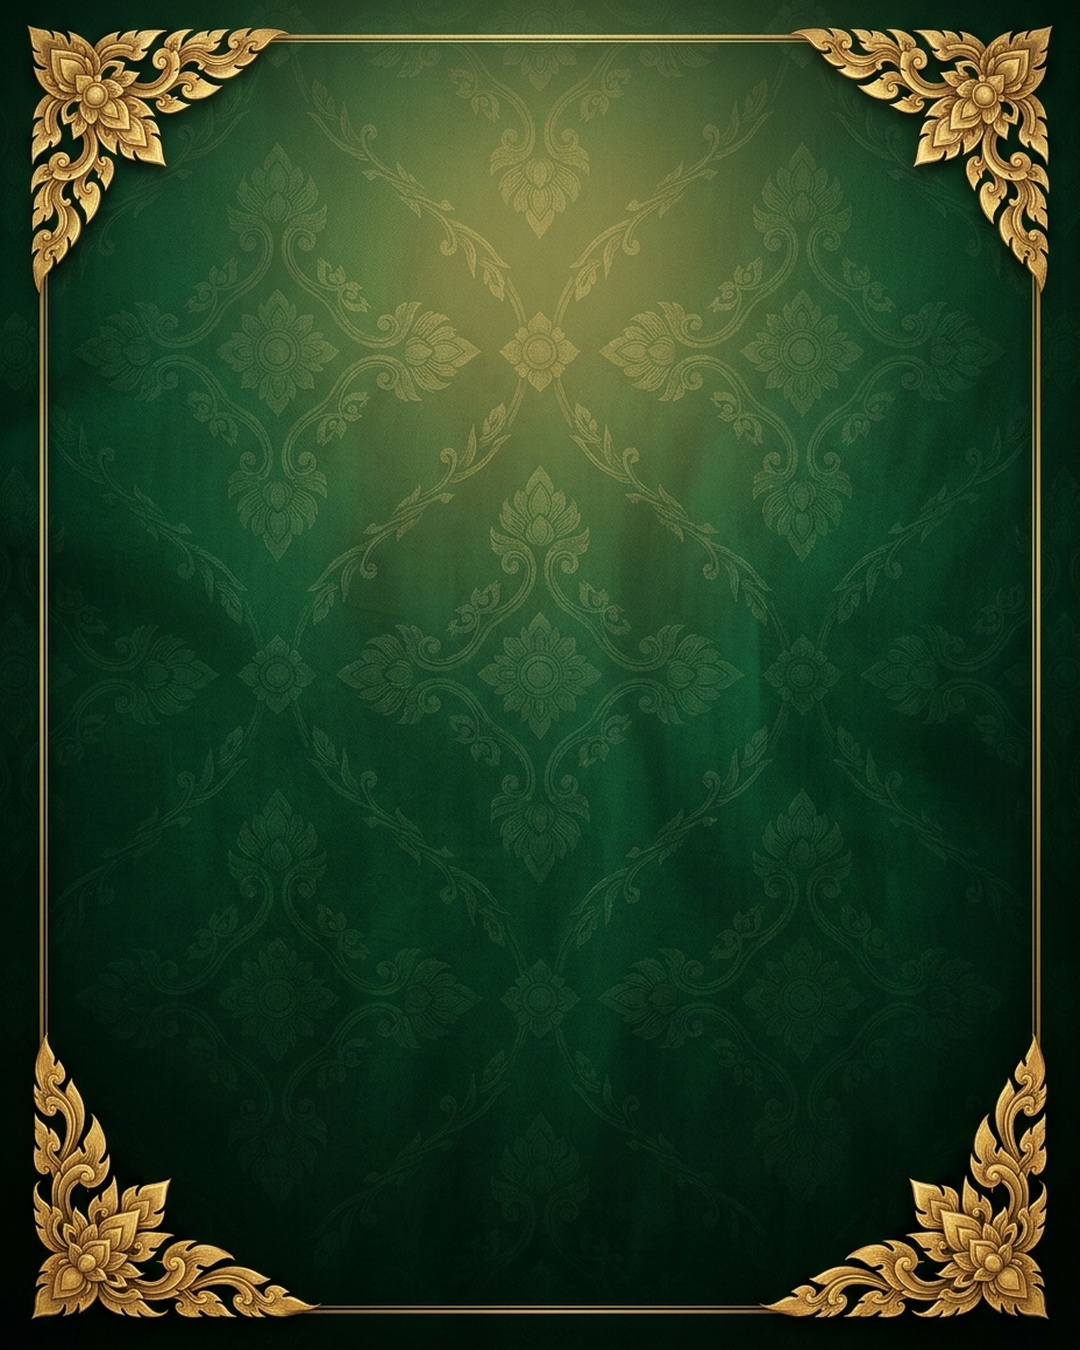
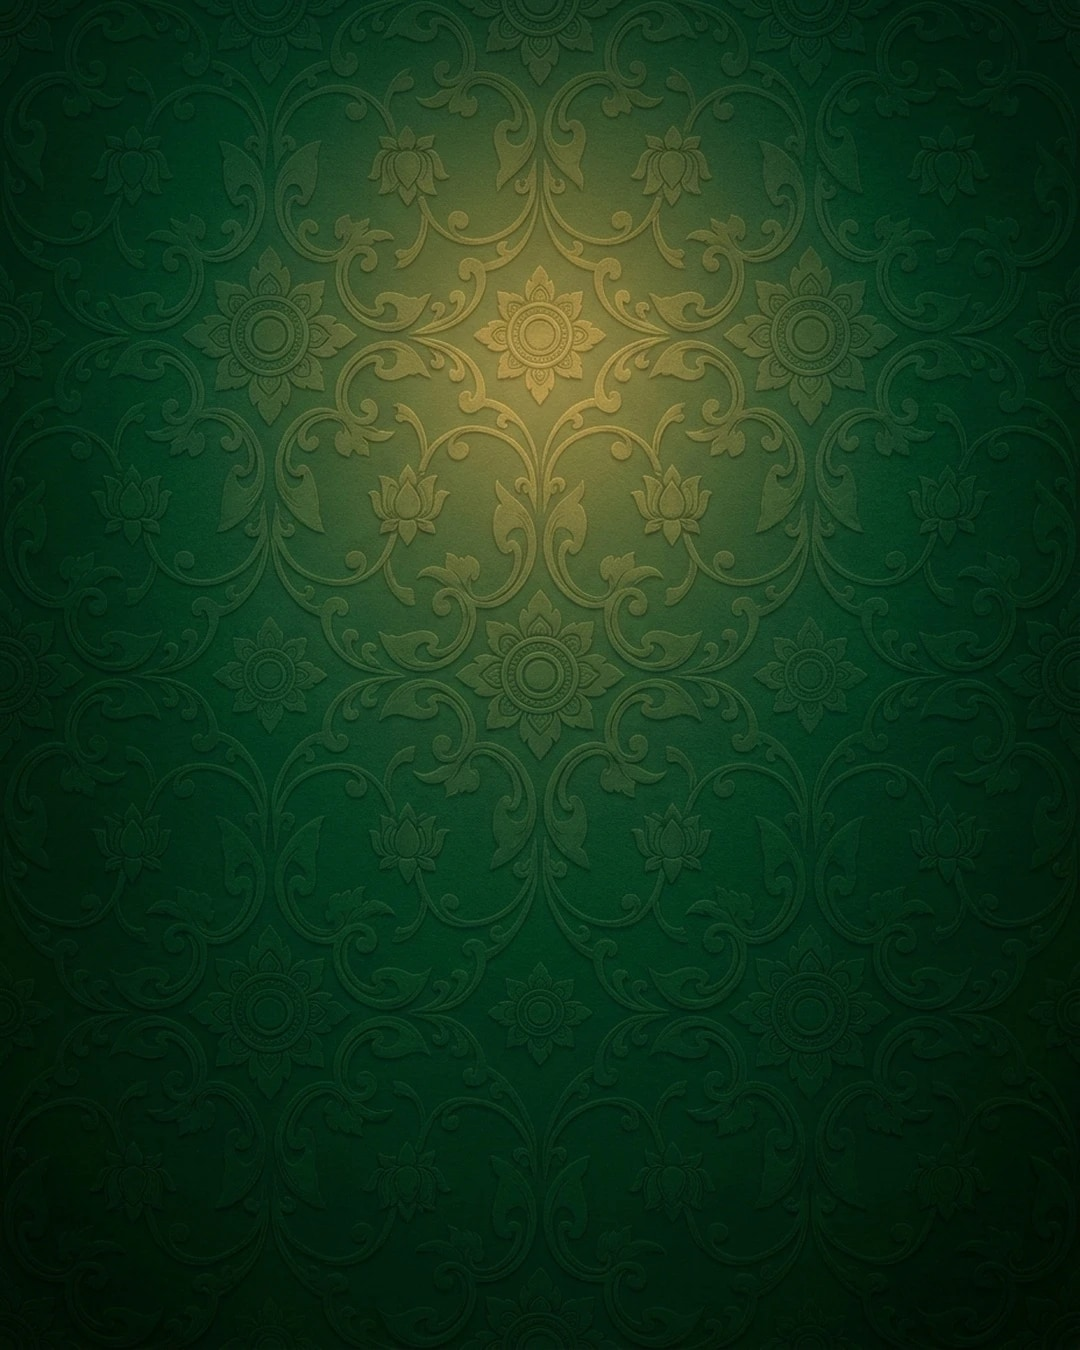
fix(publish): nothing above His Majesty — no crest, the borderless kbach tapestry, the brand only at the base
The founder (20/10/2026): «Remove the Royal Palace crest completely! We cannot place any logo directly above the
King's head. The official ceremonial portrait … is already complete and majestic on its own.» The royal portrait poster
draws no crest; the backdrop is the founder's borderless kbach tapestry (no frame, no corner ornaments); the arch is
back to 470 × 560; the blessing 27 px in whole lines; [mascot] «អេប លុយឆ្លាត · app.luychlat.com» at the base only.
A regression test allows nothing but the backdrop and the portrait to be drawn above the footer. Sent again once.

Khmer: ដកព្រះរាជសញ្ញាចេញ — គ្មានអ្វីនៅពីលើព្រះមហាក្សត្រ ក្រៅពីក្បាច់ខ្មែរ

diff --git a/src/lib/server/national-day-poster.ts b/src/lib/server/national-day-poster.ts
@@ -1,6 +1,6 @@
 // Server only: a national day or royal ceremony as a poster (founder, 20/10/2026) on the standard frame (poster-kit.ts):
 // deep emerald and gold, the brand header and footer; centred — the title, the royal name or occasion, the dates as a
-// gold chip, then the blessing. With the founder's official portrait: 1080 × 1350, the arched gold frame, the crest and
+// gold chip, then the blessing. With the founder's official portrait: 1080 × 1350, the arched gold frame (no crest) and
 // the founder's photographic royal backdrop when it is there (docs/BRAND_DESIGN_SYSTEM.md, chapter 2); without one, text only. A merit day
 // (Visak Bochea) carries the gold lotus; a memorial day is drawn quieter, in softer gold.
 import { existsSync, readFileSync } from "node:fs"
@@ -156,7 +156,7 @@ export function nationalDayPoster(d: NationalDay, day: string): { png: Buffer; t
   return { png: canvas.toBuffer("image/png"), truncated }
 }
 
-// With the official portrait (founder, 20/10/2026): 1080 x 1350, the arched gold frame, the crest at the apex (top centre).
+// With the official portrait (founder, 20/10/2026): 1080 x 1350, the arched gold frame; nothing above His Majesty (no crest, no brand).
 
 const PW = 1080
 const PH = 1350
@@ -178,9 +178,6 @@ function drawCover(ctx: SKRSContext2D, img: Image, x: number, y: number, w: numb
   const dw = img.width * scale
   ctx.drawImage(img, x + (w - dw) / 2, y, dw, img.height * scale)
 }
-
-/** The crest at the apex: 128 px × 1.15 (founder, 20/10/2026). */
-export const CREST_HEIGHT = 147
 
 function portraitPoster(d: NationalDay, day: string, art: ReturnType<typeof nationalAssetsFor>): { png: Buffer; truncated: boolean } {
   const canvas = createCanvas(PW, PH)
@@ -222,31 +219,15 @@ function portraitPoster(d: NationalDay, day: string, art: ReturnType<typeof nati
   }
 
   // The brand, top left.
-  // Royal protocol (founder, 20/10/2026 — «placing the commercial rabbit brand logo directly above the King's head is
-  // completely unacceptable»): nothing commercial above His Majesty. The upper area holds only the portrait and the
-  // Royal Coat of Arms; the brand sits modestly in the footer. On the kbach frame the corners belong to the ornaments:
-  // nothing sits on them, and the text keeps clear of the bottom ones.
-  const framed = Boolean(art.backdrop)
+  // Royal protocol (founder, 20/10/2026): nothing above His Majesty — no brand («placing the commercial rabbit brand logo
+  // directly above the King's head is completely unacceptable») and no crest («we cannot place any logo directly above
+  // the King's head; the official ceremonial portrait … is already complete and majestic on its own»). The upper area is
+  // the open kbach tapestry and its golden glow; the portrait in the arch is the one focal point; the brand signs off in
+  // the footer only.
   ctx.textBaseline = "alphabetic"
-
-  // The portrait's arch (a little smaller than before, lower) and, above it, the Royal Coat of Arms as the apex — top
-  // centre, centred between the top edge and the arch (founder, 20/10/2026: «floating it on the upper right collides
-  // with the corner ornament and breaks the symmetrical balance»), 15 % larger: perfect symmetry with the corners.
-  const fw = 420
-  const fh = 500
-  const fy = 218
-  if (art.crest) {
-    const ch = CREST_HEIGHT
-    const cw = (art.crest.width / art.crest.height) * ch
-    const top = 40 // the top edge (the kbach frame's gold line)
-    const archTop = fy - 16 // the outer gold line of the arch
-    ctx.save()
-    ctx.shadowColor = "rgba(0,0,0,0.45)"
-    ctx.shadowBlur = 18
-    ctx.shadowOffsetY = 6
-    ctx.drawImage(art.crest, (PW - cw) / 2, (top + archTop - ch) / 2, cw, ch)
-    ctx.restore()
-  }
+  const fw = 470
+  const fh = 560
+  const fy = 150
 
   // The portrait in the arched gold frame.
   const fx = (PW - fw) / 2
@@ -306,10 +287,10 @@ function portraitPoster(d: NationalDay, day: string, art: ReturnType<typeof nati
   y += 52 + 40
 
   const footer = PH - 92
-  // Inside the kbach frame the blessing is a touch smaller, so all of it fits between the bottom corners.
-  const bodyWidth = framed ? PW - 2 * 140 : width
-  const lead = framed ? 38 : 42
-  ctx.font = `500 ${framed ? 26 : 28}px ${FAMILIES}`
+  // The blessing, 27 px, centred, in whole lines (no royal phrase split — ROYAL_UNBREAKABLE).
+  const bodyWidth = PW - 2 * 130
+  const lead = 40
+  ctx.font = `500 27px ${FAMILIES}`
   ctx.fillStyle = "#ecfdf5"
   let lines = wrap(ctx, text.message, bodyWidth, 5)
   while (y + lines.length * lead > footer - 20 && lines.length > 2) lines = wrap(ctx, text.message, bodyWidth, lines.length - 1)
@@ -323,8 +304,8 @@ function portraitPoster(d: NationalDay, day: string, art: ReturnType<typeof nati
   ctx.strokeStyle = "rgba(253,230,138,0.35)"
   ctx.lineWidth = 1.5
   ctx.beginPath()
-  ctx.moveTo(framed ? 340 : 80, footer - 18)
-  ctx.lineTo(PW - (framed ? 340 : 80), footer - 18)
+  ctx.moveTo(300, footer - 18)
+  ctx.lineTo(PW - 300, footer - 18)
   ctx.stroke()
   const mascot = posterMascot()
   const brand = "អេប លុយឆ្លាត · app.luychlat.com"

diff --git a/src/lib/calendar/cambodia-holidays.test.ts b/src/lib/calendar/cambodia-holidays.test.ts
@@ -96,7 +96,7 @@ describe("The royal images: official only (founder, 20/10/2026 — «We cannot j
     await posterAssetsReady
     await mod.nationalAssetsReady
     const d = nationalDayByKey("coronation")!
-    assert.ok(mod.nationalAssetsFor(d).portrait && mod.nationalAssetsFor(d).crest)
+    assert.ok(mod.nationalAssetsFor(d).portrait)
     const r = mod.nationalDayPoster(d, "2026-10-29")
     assert.equal(r.truncated, false)
     assert.deepEqual([r.png.readUInt32BE(16), r.png.readUInt32BE(20)], [1080, 1350]) // the portrait layout
@@ -119,7 +119,7 @@ describe("A re-preview flag is used only by the build that knows it (regression,
   it("the HD flag was consumed by the previous build (old-size portrait, message 806): each flag is listed in the code it is meant for", () => {
     const sp = read("src/lib/server/scheduled-posts.ts")
     const listed = JSON.parse(sp.match(/const REPREVIEW_READY = (\[[^\]]*\])/)![1].replace(/'/g, '"')) as string[]
-    assert.ok(listed.includes("crest-apex") && !listed.includes("royal-footer") && !listed.includes("kbach-backdrop")) // a used flag leaves the list
+    assert.ok(listed.includes("no-crest") && !listed.includes("crest-apex") && !listed.includes("royal-footer")) // a used flag leaves the list
     assert.match(read("supabase/migrations/20270216000000_repreview_hd_portrait_live.sql"), /'repreview', 'hd-portrait-live'/)
   })
 })
@@ -177,15 +177,13 @@ describe("The Master Brand & Visual Design System (founder, 20/10/2026)", { skip
 })
 
 describe("The founder's kbach backdrop (20/10/2026)", () => {
-  it("the Coronation renders on the kbach frame: whole, 1080 × 1350; the corners are left to the gold ornaments", async () => {
+  it("the Coronation renders on the founder's borderless kbach tapestry, full bleed", async () => {
     const { existsSync } = await import("node:fs")
     assert.ok(existsSync(join(process.cwd(), "public/images/holidays/bg_royal_coronation.jpg")))
     const jpg = readFileSync(join(process.cwd(), "public/images/holidays/bg_royal_coronation.jpg"))
     assert.deepEqual([jpg[0], jpg[1]], [0xff, 0xd8]) // a real JPEG
     const poster = read("src/lib/server/national-day-poster.ts")
-    assert.match(poster, /const framed = Boolean\(art\.backdrop\)/)
-    assert.doesNotMatch(poster, /drawImage\(art\.crest, framed \? 800/) // never on a corner ornament
-    assert.match(poster, /const bodyWidth = framed \? PW - 2 \* 140 : width/) // clear of the bottom corners
+    assert.match(poster, /if \(art\.backdrop\) \{/)
     assert.match(read("public/images/holidays/README.txt"), /traditional Khmer kbach/)
     assert.match(read("supabase/migrations/20270221000000_repreview_kbach_backdrop.sql"), /'repreview', 'kbach-backdrop'/)
   })
@@ -205,15 +203,14 @@ describe("Royal protocol: nothing commercial above His Majesty (founder, 20/10/2
   })
 })
 
-describe("The Royal Coat of Arms as the apex (founder, 20/10/2026 — symmetry)", () => {
-  it("regression: the crest on the top right collided with the corner ornament — now top centre, between the top edge and the arch, 15 % larger", async () => {
+describe("Nothing above His Majesty — no crest, no logo (founder, 20/10/2026)", () => {
+  it("regression: a crest above the King's head (top right, then centred) — the royal poster draws no crest; the portrait is the one focal point", () => {
     const poster = read("src/lib/server/national-day-poster.ts")
-    assert.match(poster, /ctx\.drawImage\(art\.crest, \(PW - cw\) \/ 2, \(top \+ archTop - ch\) \/ 2, cw, ch\)/)
-    const { CREST_HEIGHT } = await import("@/lib/server/national-day-poster")
-    assert.equal(CREST_HEIGHT, Math.round(128 * 1.15))
-    // It fits above the arch: the top edge (40) + the crest ≤ the arch's outer line (fy − 16).
-    const fy = Number(poster.match(/const fy = (\d+)/)![1])
-    assert.ok(40 + CREST_HEIGHT <= fy - 16, `${fy}`)
-    assert.match(read("supabase/migrations/20270223000000_repreview_crest_apex.sql"), /'repreview', 'crest-apex'/)
+    const royal = poster.slice(poster.indexOf("function portraitPoster("))
+    assert.doesNotMatch(royal, /art\.crest/) // the crest is never drawn on a royal portrait poster
+    assert.doesNotMatch(poster, /CREST_AT|CREST_HEIGHT/)
+    const footer = royal.indexOf("// The footer — the only place of the brand")
+    assert.doesNotMatch(royal.slice(0, footer), /drawImage\((?!art\.backdrop|art\.portrait|img)/) // only the backdrop and the portrait above the footer
+    assert.match(read("supabase/migrations/20270224000000_repreview_no_crest.sql"), /'repreview', 'no-crest'/)
   })
 })

diff --git a/src/lib/server/scheduled-posts.ts b/src/lib/server/scheduled-posts.ts
@@ -729,7 +729,7 @@ export async function scheduledPostsTick() {
   const now = phnomPenhToday()
   const offset = await hijriOffset()
   // The «repreview» flags this build may act on — add a migration's new flag here in the same commit.
-  const REPREVIEW_READY = ["crest-apex"]
+  const REPREVIEW_READY = ["no-crest"]
   await real().tick(now.day, now.hour * 60 + now.minute, (d) => toHijri(dateOf(d), offset))
   // National days and royal ceremonies (founder, 20/10/2026): previewed from 48 hours before at 08:00, published at
   // 07:00 on the day once approved (a missed preview window is caught up until then — idempotent).

diff --git a/docs/BRAND_DESIGN_SYSTEM.md b/docs/BRAND_DESIGN_SYSTEM.md
@@ -40,22 +40,21 @@ renders the poster. With a portrait the poster is 1080 × 1350; without one it i
 
 1. **Base layer:** a rich royal emerald gradient (`#052e26 → #064e3b → #047857`), a gold glow behind the portrait and
    a soft vignette.
-2. **The founder's backdrop (founder, 20/10/2026):** `bg_royal_coronation.jpg` (1080 × 1350), full bleed — today the
-   traditional Khmer **kbach** frame: deep emerald, the kbach / lotus watermark and four golden ornate corners. A soft
-   oval of deep emerald behind the text keeps every line legible and leaves the corners bright. **Never draw
+2. **The founder's backdrop (founder, 20/10/2026):** `bg_royal_coronation.jpg` (1080 × 1350), full bleed — today a
+   borderless traditional Khmer **kbach** tapestry: deep emerald, kbach and lotus motifs, a soft golden glow behind the
+   arch. A soft oval of deep emerald behind the text keeps every line legible. **Never draw
    architecture or ornaments as vector shapes:** the founder rejected drawn silhouettes as «crude clipart … unworthy of
    His Majesty the King». Royal architecture, if shown, is photographic only. Without the backdrop, use the plain
    emerald gradient and gold glow.
-3. **On a framed backdrop:** the corners belong to the ornaments — nothing sits on them, and the blessing (26 px) keeps
-   clear of the bottom corners.
+3. **Nothing above His Majesty (founder, 20/10/2026):** no crest and no logo above the King's head — «the official
+   ceremonial portrait of His Majesty on the throne in the golden arch is already complete and majestic on its own».
+   The upper area is the open tapestry and its glow.
 4. **Royal protocol — the brand at the base (founder, 20/10/2026, the CBC model):** nothing commercial above His
-   Majesty. The upper area holds only the portrait and the Royal Coat of Arms; the brand is a modest sign-off at the very
+   Majesty. The upper area holds only the portrait; the brand is a modest sign-off at the very
    bottom, centred: [mascot] «អេប លុយឆ្លាត · app.luychlat.com».
-5. **Foreground:** the **golden arched frame** holds the **official, high-definition royal portrait**. The **official
-   golden Royal Coat of Arms** is the **apex, top centre**, centred between the top edge and the arch, 147 px tall,
-   with a soft shadow — perfect symmetry with the corners and the portrait (founder, 20/10/2026: the top right
-   «collides with the corner ornament and breaks the symmetrical balance»). The vertical order: the crest, the arch
-   with the portrait, the title, the royal name, the dateline, the blessing, the brand at the base.
+5. **Foreground:** the **golden arched frame** holds the **official, high-definition royal portrait** — the one focal
+   point. The vertical order: the arch with the portrait, the title, the royal name, the dateline, the blessing, the brand
+   at the base.
 6. **Text, below the arch:** the title in gold, 52 px; the royal name and title in white, 30 px; the gold date chip;
    the blessing, 28 px, centred; then the footer.
 
@@ -68,7 +67,8 @@ renders the poster. With a portrait the poster is 1080 × 1350; without one it i
   an unsharp mask, contrast × 1.05 and colour × 1.03. A larger original is always preferred.
 - **No portrait, no picture:** when the official file is missing, the poster uses the text design and the preview
   tells the approver (`nationalAssetsFor`, `PORTRAIT_CREDITS = {}`).
-- The Coat of Arms is `royal_crest_gold.png`, transparent and crisp. Ask the founder before changing it.
+- The Coat of Arms (`royal_crest_gold.png`) is **not drawn on a royal portrait poster** (founder, 20/10/2026). Ask the
+  founder before using it anywhere.
 
 ### 2.3 Royal Palace protocol — reference table (verbatim)
 
@@ -180,13 +180,13 @@ dilemma, and the lesson posters.
 
 ## Chapter 6 — The pre-flight four-layer checklist (before any preview reaches «LCA Approval»)
 
-Render the poster and **look at it**. Zoom into the portrait, the crest and every text block. Check every layer, then
+Render the poster and **look at it**. Zoom into the portrait and every text block. Check every layer, then
 check all four again together.
 
 **Layer 1 — Artwork**
 - [ ] Only official or app-drawn imagery; the source is recorded in the README.
 - [ ] The portrait is HD (at least 1000 px tall), centred in the arch, with no stray pixels or awkward crop.
-- [ ] The crest is crisp, golden and transparent at the top centre, above the arch; the composition is symmetrical.
+- [ ] Nothing above His Majesty: no crest, no logo; the composition is symmetrical and uncluttered.
 
 **Layer 2 — Background**
 - [ ] The emerald gradient and the vignette are smooth, with no hard bands.
@@ -220,3 +220,5 @@ an approver's tap.
   moves to the top centre and the crest inside the top-right ornament.
 - **20/10/2026:** royal posters carry no brand at the top — the brand is a modest sign-off at the bottom (the CBC model).
 - **20/10/2026:** the Royal Coat of Arms is the apex at the top centre above the arch (147 px), for full symmetry.
+- **20/10/2026:** the backdrop is the founder's borderless kbach tapestry; **no crest and no logo above His Majesty** —
+  the portrait in the golden arch stands alone; the brand only at the base.

diff --git a/ROADMAP.md b/ROADMAP.md
@@ -74,7 +74,7 @@ dropped between sessions. The founder reviews it every evening.
 - [ ] Reel voices: Azure AI Speech key on the Droplet (the founder declined Azure for the du'as; reels still need a licensed voice)
 - [ ] Mascot master ≥ 1024 px, Facebook Page logo and cover (CLAUDE.md § E)
 - [/] **Master Brand & Visual Design System** — `docs/BRAND_DESIGN_SYSTEM.md`, the permanent design foundation for every poster: the four pillars, royal protocol (verbatim table), Islamic terminology and two-tier colours, Sil days and festivals, daily education, the pre-flight four-layer checklist; referenced in CLAUDE.md. Evolves only on the founder's decisions (its change log)
-- [/] Royal & national poster engine on the standard: official HD portrait in the golden arch, the Coat of Arms as the apex at the top centre, the brand only at the base (royal protocol), the founder's kbach backdrop, palace-protocol wording (e115e42, 5b34ce3, b519f26, 48f9586, 88318cb); the drawn silhouettes removed as clipart (founder)
+- [/] Royal & national poster engine on the standard: official HD portrait in the golden arch, nothing above His Majesty (no crest, no logo), the brand only at the base (royal protocol), the founder's borderless kbach backdrop, palace-protocol wording (e115e42, 5b34ce3, b519f26, 48f9586, 88318cb, f9f0cb7); the drawn silhouettes removed as clipart (founder)
 - [/] 29/10 Coronation — preview card in «LCA Approval» (48 h approval; previewed early on the founder's request), publishes 07:00 only after a tap
 - [ ] 09/11 Independence Day — preview 07/11 08:00; text design until the founder provides an official portrait of the King Father
 - [ ] Water Festival (dates from the official sub-decree) — preview 48 h before at 08:00
